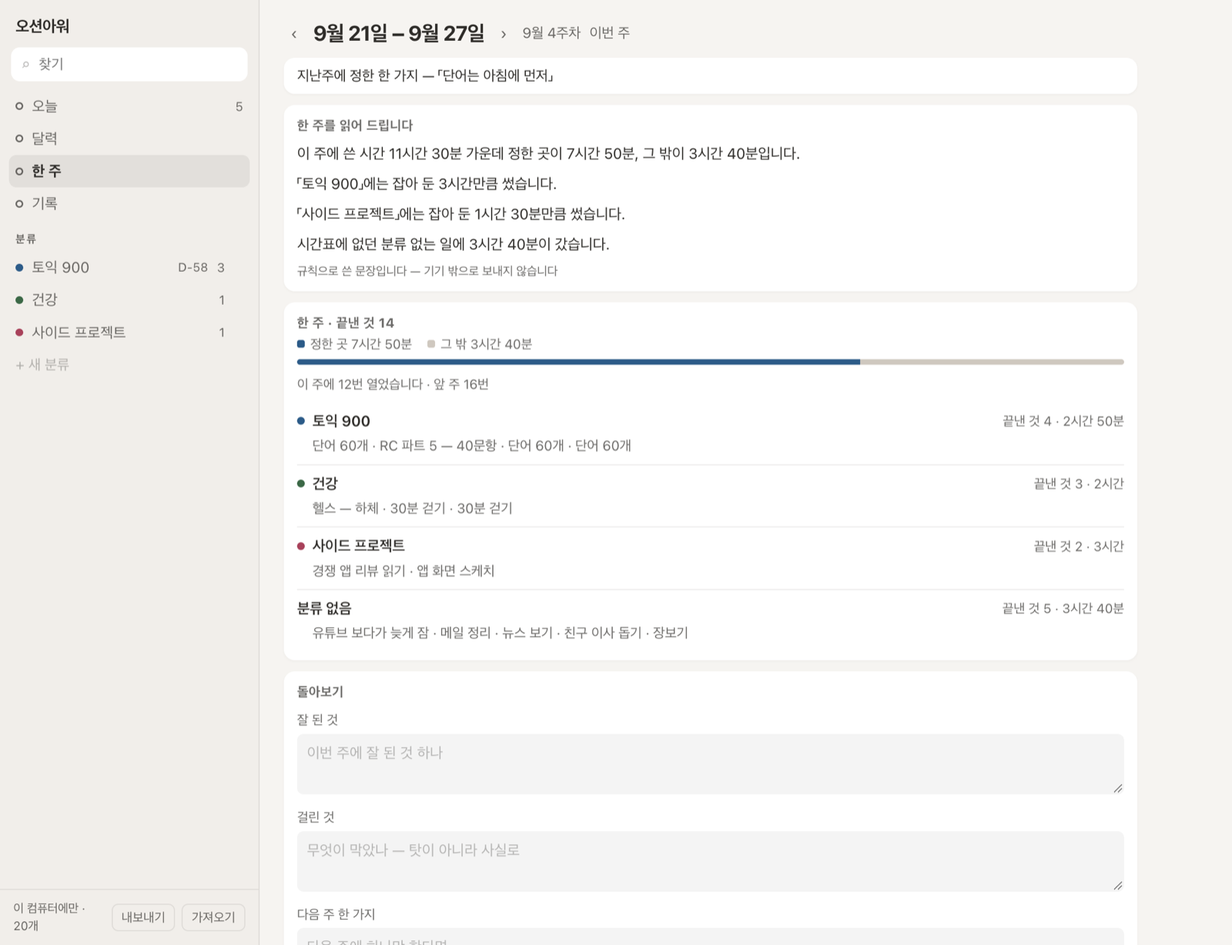
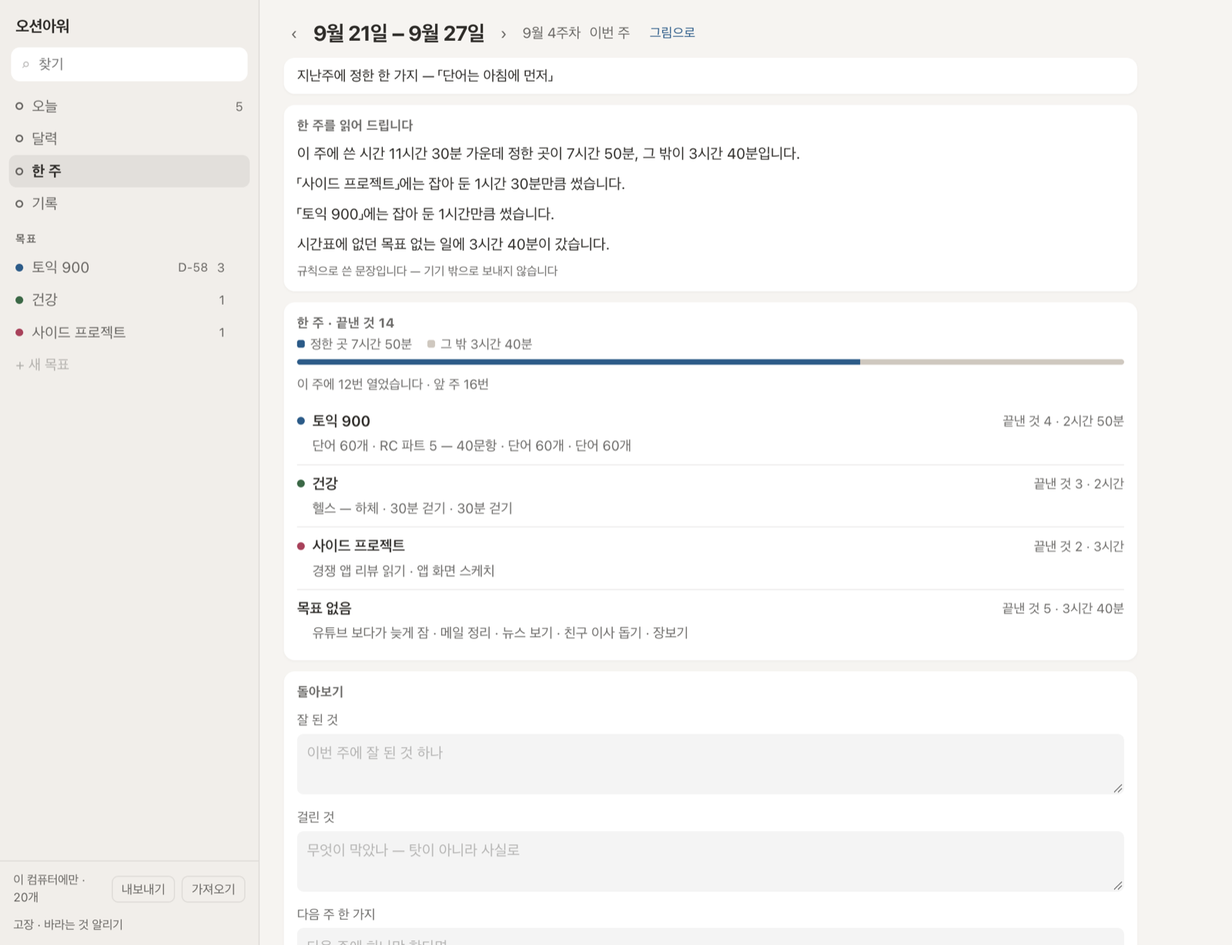
진리에 맞춰 — 처음 화면 틀, 말은 목표 하나, 폰 날짜 줄, 내보내기 보내기 창, 설치 사진
- 처음 빈 화면에 「틀로 바로 시작」(시험 준비 8주 · 갓생 아침)
- 화면의 「분류」를 「목표」로 — 파는 페이지와 같은 말
- 폰 폭에서 날짜 줄 단추가 두 줄로 접히던 것 고침
- 폰에서 내보내기는 보내기 창(에어드롭 · 카톡 · 파일에 저장), 안 되면 파일로
- manifest 설치 사진(넓은 · 좁은), 파는 페이지: 앱 안 브라우저 알림 · 한 주 그림 · 새 사진

diff --git a/app/index.html b/app/index.html
@@ -198,7 +198,7 @@ main{flex:1;overflow:auto}
 .daybar button{color:var(--d70);font-size:15px;padding:1px 6px;border-radius:6px;line-height:1.3}
 .daybar button:hover{background:var(--hov);color:var(--ink)}
 .daybar .today{font-size:12px;margin-left:4px;color:var(--c4)}
-/* 늘 보이는 단추는 다섯까지(규칙 13) — 나머지는 「⋯」를 누르면 편다 */
+/* 늘 보이는 단추는 다섯까지(규칙 3) — 나머지는 「⋯」를 누르면 편다 */
 .daybar .xtra{display:none}
 .daybar.more-on .xtra{display:inline-block}
 .daybar .dmore{font-size:14px;padding:1px 7px;letter-spacing:.05em}
@@ -281,7 +281,7 @@ li.row:has(.edit) .tools{display:none}
 body.cool .tools{pointer-events:none!important}   /* 도구를 누른 직후 0.5초 — 줄이 밀려 다른 단추가 손 밑에 와도 두 번 눌리지 않게 */
 .tools button{font-size:11.5px;color:var(--d70);padding:2px 5px;border-radius:5px;white-space:nowrap}
 .tools button:hover{background:var(--hov);color:var(--ink)}
-.tools .xtra{display:none}                     /* 늘 보이는 도구는 여덟까지(규칙 13) — 나머지는 「더」 */
+.tools .xtra{display:none}                     /* 늘 보이는 도구는 여덟까지(규칙 3) — 나머지는 「더」 */
 li.row.tools-more .tools .xtra{display:inline-block}
 li.row.tools-more .tools .tmore{display:none}
 .tools .rep{position:relative;display:inline-flex}
@@ -295,6 +295,10 @@ li.row.tools-more .tools .tmore{display:none}
 .first p{margin:0 0 10px}
 .first .ex{background:var(--hov);border-radius:8px;padding:7px 10px 1px;margin:0 0 10px}
 .first .exl{display:block;font-size:11px;font-weight:700;letter-spacing:.08em;margin:0 0 5px}
+.fstart{display:flex;flex-wrap:wrap;align-items:center;gap:6px;margin:2px 0 8px}
+.fstart span{font-size:12px;color:var(--d70);margin-right:2px}
+.fstart button{font-size:13px;color:var(--c4);border:1px solid var(--line);background:var(--card);border-radius:999px;padding:4px 12px}
+.fstart button:hover{background:var(--hov)}
 /* 메모 — 줄 아래에 펼친다. 적는 대로 저장한다 */
 .meta .nm-mark{cursor:pointer}
 /* 하위 할 일 — 줄 아래로 펼친다. 한 겹만 */
@@ -479,7 +483,8 @@ body.tdragging,body.tdragging *{cursor:grabbing!important;user-select:none}
   .wrap{padding:4px 12px calc(96px + env(safe-area-inset-bottom))}
   .daybar{flex-wrap:wrap;row-gap:6px}
   .daybar.dayb{flex-wrap:nowrap;gap:4px}        /* 날짜 줄은 한 줄로 — 날짜 글자가 길면 줄여서 ⋯ 까지 한 줄에 */
-  .daybar.dayb .wd{min-width:0;overflow:hidden;text-overflow:ellipsis;white-space:nowrap}
+  .daybar.dayb .wd{min-width:0;flex:1 1 auto;overflow:hidden;text-overflow:ellipsis;white-space:nowrap}
+  .daybar.dayb > button,.daybar.dayb .seg,.daybar.dayb h1{flex:none;white-space:nowrap}   /* 단추는 안 줄인다 — 줄어드는 건 날짜 글자만(09-26 「추석 연휴」에서 단추가 두 줄로 접혔다) */
   .daybar.dayb.more-on{flex-wrap:wrap}
   .daybar h1{white-space:nowrap}
   .daybar .ics{margin-left:0}
@@ -1202,7 +1207,7 @@ const editing = () => !!document.querySelector('input.edit')
 let openNotes = new Set();                      // 메모를 펼친 할 일
 let openSubs  = new Set();                      // 하위 할 일을 펼친 할 일
 let toolsOn   = null;                           // 폰 — 「⋯」로 도구를 편 줄 하나
-let toolsMore = null;                           // 도구의 「더」를 편 줄 하나 — 늘 보이는 도구는 여덟까지(규칙 13)
+let toolsMore = null;                           // 도구의 「더」를 편 줄 하나 — 늘 보이는 도구는 여덟까지(규칙 3)
 let dayMore   = false;                          // 날짜 줄의 「⋯」를 폈나
 let copyFor   = null, copyPick = new Set();     // 복사 — 할 일 id 또는 'day:날짜' · 고른 날들
 let picking   = false, picked = new Set();      // 여러 개 골라 한꺼번에
@@ -1215,7 +1220,7 @@ function drawPickbar(){
     <button data-pk="today" ${dis}>오늘로</button><button data-pk="tomorrow" ${dis}>내일로</button>
     <label class="pksel pkd">날짜…<input type="date" data-pkdate ${dis}></label>
     <button data-pk="done" ${dis}>끝내기</button>
-    <select class="pksel" data-pklist ${dis}><option value="">분류 ▾</option><option value="-">분류 없음</option>${DB.lists().filter(l => !l.done).map(l => `<option value="${esc(l.id)}">${esc(l.name)}</option>`).join('')}</select>
+    <select class="pksel" data-pklist ${dis}><option value="">목표 ▾</option><option value="-">목표 없음</option>${DB.lists().filter(l => !l.done).map(l => `<option value="${esc(l.id)}">${esc(l.name)}</option>`).join('')}</select>
     <button class="del" data-pk="del" ${dis}>지우기</button>
     <button data-pk="all">보이는 것 모두</button><button data-pk="stop">그만</button>`;
 }
@@ -1285,15 +1290,15 @@ function drawSide(){
     + (nTrash ? `<button class="li ${mode() === 'trash' ? 'on' : ''}" data-view="trash" title="지운 것 — 되살리면 제자리로 돌아갑니다">
          <span class="dot ring"></span><span class="nm">휴지통</span><span class="n">${nTrash}</span></button>` : '')
     + (() => { const ar = [...new Set(going.map(l => l.area).filter(Boolean))], none = going.filter(l => !l.area);
-        if (!ar.length) return `<div class="sec">분류</div>` + going.map(item).join('');   // 영역을 안 쓰면 전과 같다
+        if (!ar.length) return `<div class="sec">목표</div>` + going.map(item).join('');   // 영역을 안 쓰면 전과 같다
         return ar.map(a => `<div class="sec area"><span data-area="${esc(a)}" title="누르면 영역 이름 고치기">${esc(a)}</span></div>`
                           + going.filter(l => l.area === a).map(item).join('')).join('')
           + (none.length ? `<div class="sec">영역 없음</div>` + none.map(item).join('') : ''); })()
-    + `<button class="newlist" id="newlist">+ 새 분류</button>`
+    + `<button class="newlist" id="newlist">+ 새 목표</button>`
     + (fin.length ? `<button class="newlist" data-finfold>${showFin ? '마친 목표 접기' : '마친 목표 ' + fin.length}</button>`
                     + (showFin ? fin : fin.filter(l => l.id === open)).map(item).join('') : '');   // 열어 둔 것은 접혀도 보인다
   const sel = $('#addList'), keep = sel.value;
-  sel.innerHTML = `<option value="">분류 없음</option>`
+  sel.innerHTML = `<option value="">목표 없음</option>`
     + going.map(l => `<option value="${esc(l.id)}">${esc(l.name)}</option>`).join('');
   if ([...sel.options].some(o => o.value === keep)) sel.value = keep;
 }
@@ -1335,7 +1340,7 @@ function drawDay(){
          ${calWeek !== DB.monday(T) ? `<button class="today" data-cm="0">이번 주</button>` : ''}${seg}${noHoli}${ics}`
       : `<button data-cm="-1">‹</button><h1>${y}년 ${m}월</h1><button data-cm="1">›</button>
          ${calMonth !== T.slice(0, 7) ? `<button class="today" data-cm="0">이번 달</button>` : ''}${seg}${noHoli}${ics}`; return; }
-  // 늘 보이는 단추는 다섯까지(규칙 13) — 나머지는 「⋯」 안에. 계획 · 마무리는 때에 맞는 하나만 앞에 둔다(오후 세 시부터 마무리)
+  // 늘 보이는 단추는 다섯까지(규칙 3) — 나머지는 「⋯」 안에. 계획 · 마무리는 때에 맞는 하나만 앞에 둔다(오후 세 시부터 마무리)
   const pmNow = new Date().getHours() >= 15;
   $('#daybar').classList.toggle('more-on', dayMore); $('#daybar').classList.add('dayb');
   $('#daybar').innerHTML =
@@ -1412,9 +1417,9 @@ function row(t){
         : inLog ? (l ? `<span class="d">${esc(l.name)}</span>` : '')
         : showDate ? `<span class="d">${t.date?dOnly(t.date):'날짜 없음'}</span>`
         : (t.movedFrom && t.movedFrom !== t.date ? `<span class="d">${dOnly(t.movedFrom)}부터</span>` : '')}
-      <span class="cdot ${l?'':'none'}" style="${l?`background:${l.color}`:''}" title="분류">
+      <span class="cdot ${l?'':'none'}" style="${l?`background:${l.color}`:''}" title="목표">
         <select data-do="setlist">
-          <option value="" ${!l?'selected':''}>분류 없음</option>
+          <option value="" ${!l?'selected':''}>목표 없음</option>
           ${opts.map(x=>`<option value="${esc(x.id)}" ${l&&l.id===x.id?'selected':''}>${esc(x.name)}</option>`).join('')}
         </select></span>
     </span>
@@ -1441,7 +1446,7 @@ function group(ts, fold){
     const l = k ? DB.listOf(k) : null;
     out += `<div class="box">
       <h2 ${l ? `data-list="${esc(l.id)}" title="목표 화면 열기"` : ''}>${l
-          ? `<span class="gdot" style="background:${l.color}"></span>${esc(l.name)}` : '분류 없음'}${fold ? cnt(arr) : ' · ' + arr.length}</h2>
+          ? `<span class="gdot" style="background:${l.color}"></span>${esc(l.name)}` : '목표 없음'}${fold ? cnt(arr) : ' · ' + arr.length}</h2>
       ${fold ? rows(arr) : `<ul>${arr.map(row).join('')}</ul>`}</div>`;
   }
   return out;
@@ -1520,7 +1525,7 @@ function readWeek(wk){
     out.push(g >= p * 0.9 ? `「${name(k)}」에는 잡아 둔 ${fmtDur(p)}만큼 썼습니다.`
       : `「${name(k)}」에 ${fmtDur(p)}을 잡아 두었고, 쓴 시간은 ${g ? fmtDur(g) + '입니다' : '아직 없습니다'}.`); });
   const extra = [...got.entries()].filter(([k, g]) => !plan.has(k) && g >= 1800).sort((a, b) => b[1] - a[1])[0];
-  if (extra) out.push(`시간표에 없던 ${extra[0] ? '「' + name(extra[0]) + '」' : '분류 없는 일'}에 ${fmtDur(extra[1])}이 갔습니다.`);
+  if (extra) out.push(`시간표에 없던 ${extra[0] ? '「' + name(extra[0]) + '」' : '목표 없는 일'}에 ${fmtDur(extra[1])}이 갔습니다.`);
   const moved = DB.todos().filter(t => !t.done && inWk(t.date) && t.movedCount >= 2).sort((a, b) => b.movedCount - a.movedCount)[0];
   if (moved) out.push(`여러 번 옮긴 일 — 「${moved.text}」 ${moved.movedCount}번. 쪼개 보거나, 이 주는 내려놔도 됩니다.`);
   return out.slice(0, 4);
@@ -1539,7 +1544,7 @@ function weekPage(){                           // 한 주 — 끝낸 것과 쓴 
   const groups = order.map(k => { const l = k ? DB.listOf(k) : null, p = per.get(k);
     const bits = [p.done.length ? '끝낸 것 ' + p.done.length : '', p.secs ? fmtDur(p.secs) : ''].filter(Boolean).join(' · ');
     return `<div class="wg"><div class="wh" ${l ? `data-list="${esc(l.id)}" title="목표 화면 열기"` : ''}>${l
-        ? `<span class="gdot" style="background:${l.color}"></span>${esc(l.name)}` : '분류 없음'}<span class="n">${bits}</span></div>
+        ? `<span class="gdot" style="background:${l.color}"></span>${esc(l.name)}` : '목표 없음'}<span class="n">${bits}</span></div>
       ${p.done.length ? `<div class="wl">${p.done.map(t => esc(t.text)).join(' · ')}</div>` : ''}</div>`; }).join('');
   const opn = w => [0, 1, 2, 3, 4, 5, 6].reduce((a, i) => a + DB.opensOn(DB.shift(w, i)), 0), oNow = opn(wk), oPrev = opn(DB.shift(wk, -7));
   const opens = oNow || oPrev ? `<div class="opn" title="이 기기 안에서만 셉니다 — 밖으로 보내지 않습니다. 5분 넘게 떠나 있다가 돌아온 것을 한 번으로 셉니다">이 주에 ${oNow}번 열었습니다 · 앞 주 ${oPrev}번</div>` : '';
@@ -1689,25 +1694,27 @@ function drawBody(){
         + (showPast ? `<div class="box"><ul>${p.map(row).join('')}</ul></div>` : '');
     }
     const ts = DB.todosOn(day).sort(DB.byWhen), rt = ts.filter(t => t.repeat);   // 루틴(반복하는 일)은 맨 위 한 칸에 따로
-    const first = day === T && !DB.todos().length && !DB.lists().length;   // 처음 온 사람 — 설명 창 없이 빈 칸에서 차이를 보여 준다(규칙 9)
+    const first = day === T && !DB.todos().length && !DB.lists().length;   // 처음 온 사람 — 설명 창 없이 빈 칸에서 차이를 보여 준다(규칙 10)
     html += ts.length ? (rt.length ? `<div class="box routine"><h2>루틴${cnt(rt)}</h2>${rows(rt)}</div>` : '') + group(ts.filter(t => !t.repeat), true)
       : `<div class="box"><div class="empty">${day===T
           ? '오늘 할 일이 없습니다. 위에 적어 보세요.' : '이 날은 비어 있습니다.'}</div>${first ? firstHint() : ''}</div>`;
     const un = DB.undated().sort(DB.byWhen);
     if (un.length && day === T)
       html += `<div class="box"><h2>날짜 없음${cnt(un)}</h2>${rows(un)}</div>`;
-    const sp = DB.timeByDay()[day];               // 이 날 쓴 시간 — 정한 곳 · 그 밖을 오늘 화면에서도(규칙 9). 잰 게 있을 때만, 맨 아래에
+    const sp = DB.timeByDay()[day];               // 이 날 쓴 시간 — 정한 곳 · 그 밖을 오늘 화면에서도(규칙 10). 잰 게 있을 때만, 맨 아래에
     if (sp && sp.on + sp.off) html += `<div class="box dsum"><h2>${day === T ? '오늘' : '이 날'} 쓴 시간</h2>${timeLine(sp)}</div>`;
   }
   $('#body').innerHTML = html;
 }
 
 function firstHint(){                           // 처음 온 사람에게 — 두 줄과 예시 막대 하나. 할 일이나 목표가 하나라도 생기면 사라진다
-  return `<div class="first"><p>「+ 새 분류」로 목표를 만들고(폰은 ☰ 안), 그 목표의 일에 시간을 쓰면 하루가 둘로 나뉘어 보입니다.
+  return `<div class="first"><p>「+ 새 목표」로 목표를 만들고(폰은 ☰ 안), 그 목표의 일에 시간을 쓰면 하루가 둘로 나뉘어 보입니다.
       정한 곳은 목표에 이어 둔 일, 그 밖은 나머지입니다.</p>
     <div class="ex"><span class="exl">예시</span>${timeLine({ on:7200, off:3600 })}</div>
-    <p>시간은 할 일 줄의 「시작」으로 재거나, 「3시 공부」처럼 시각을 적어 두고 끝내면 들어갑니다.</p></div>`;
+    <p>시간은 할 일 줄의 「시작」으로 재거나, 「3시 공부」처럼 시각을 적어 두고 끝내면 들어갑니다.</p>
+    <div class="fstart"><span>틀로 바로 시작</span>${FIRST_FRAMES.map(([k, n]) => `<button data-framego="${k}">${n}</button>`).join('')}</div></div>`;
 }
+const FIRST_FRAMES = [['exam', '시험 준비 8주'], ['morning', '갓생 아침']];   // t/ 폴더의 틀 중 처음 화면에 둘 것 — 이름은 틀 파일과 맞춘다
 
 /* ── 제자리 고치기 ── */
 function startEdit(el, value, save){
@@ -1948,7 +1955,7 @@ function pickDo(a, arg){
   else if (a === 'done'){ const was = ids.filter(id => !DB.todo(id).done); was.forEach(id => DB.toggleTodo(id));
     msg = `${was.length}개를 끝냈습니다`; back = () => was.forEach(id => DB.toggleTodo(id)); }
   else if (a === 'list'){ const prev = ids.map(id => [id, DB.todo(id).listId]); ids.forEach(id => DB.editTodo(id, { listId:arg }));
-    msg = `${n}개의 분류를 바꿨습니다`; back = () => prev.forEach(([id, l]) => DB.editTodo(id, { listId:l })); }
+    msg = `${n}개의 목표를 바꿨습니다`; back = () => prev.forEach(([id, l]) => DB.editTodo(id, { listId:l })); }
   else if (a === 'del'){ ids.forEach(id => DB.removeTodo(id)); msg = `${n}개를 지웠습니다`; back = () => ids.forEach(id => DB.restoreTodo(id)); }
   stopPick(); render(); toast(msg, back);
 }
@@ -2078,7 +2085,7 @@ document.addEventListener('click', e => {
   if (e.target.closest('[data-logmore]')){ logMore += 30; return render(); }
 
   const nl = e.target.closest('#newlist');
-  if (nl) return startAdd(nl, '분류 이름', v => { const l = DB.addList(v); if (l) open = l.id; }, false);
+  if (nl) return startAdd(nl, '목표 이름', v => { const l = DB.addList(v); if (l) open = l.id; }, false);
 
   if (e.target.closest('[data-finfold]')){ showFin = !showFin; return render(); }
   const ar = e.target.closest('[data-area]');
@@ -2626,14 +2633,21 @@ function fbLink(){
 
 /* ── 받은 틀(규칙 11) ── 주소 끝의 ?t=이름 → t/이름.json 을 받아 한 번 묻는다. 사람이 링크를 누른 뒤라 규칙 2에 맞다 */
 let frameAsk = null;                            // { key, f } — 넣을지 묻는 중인 틀
+const fetchFrame = k => !/^[a-z0-9-]{1,40}$/.test(k) ? Promise.reject()
+  : fetch('t/' + k + '.json', { cache:'no-cache' }).then(r => r.ok ? r.json() : Promise.reject()).then(j => DB.cleanFrame(j) || Promise.reject());
 function loadFrame(){
   const k = new URLSearchParams(location.search).get('t'); if (!k) return;
-  if (!/^[a-z0-9-]{1,40}$/.test(k)) return toast('틀 이름을 읽지 못했습니다 — 받은 링크를 다시 눌러 주세요');
-  return fetch('t/' + k + '.json', { cache:'no-cache' }).then(r => r.ok ? r.json() : Promise.reject())
-    .then(j => { const f = DB.cleanFrame(j); if (!f) throw 0;
-      frameAsk = { key:k, f }; page = 'day'; open = null; q = ''; day = DB.today(); render(); })
+  return fetchFrame(k).then(f => { frameAsk = { key:k, f }; page = 'day'; open = null; q = ''; day = DB.today(); render(); })
     .catch(() => toast('틀을 찾지 못했습니다 — 받은 링크를 다시 눌러 주세요'));
 }
+function putFrame(f){                            // 넣고, 되돌리기를 붙인다
+  const r = DB.addFrame(f); render();
+  toast(`넣었습니다 · ${f.name} — 루틴의 「시작」을 누르면 정한 곳에 시간이 쌓입니다`, () => DB.dropFrame(r), 8000);
+  return r;
+}
+document.addEventListener('click', e => { const b = e.target.closest('[data-framego]'); if (!b) return;   // 처음 화면의 「틀로 바로 시작」 — 누른 게 곧 고른 것이라 묻지 않고 넣는다(되돌릴 수 있다)
+  b.disabled = true; return fetchFrame(b.dataset.framego).then(putFrame)
+    .catch(() => { b.disabled = false; toast('틀을 받지 못했습니다 — 인터넷을 확인해 주세요'); }); });
 function framePanel(){
   const f = frameAsk.f, n = k => f.goals.reduce((a, g) => a + g[k].length, 0);
   const what = [`목표 ${f.goals.length}`, n('stages') ? `단계 ${n('stages')}` : '', n('routines') ? `루틴 ${n('routines')}` : '', n('todos') ? `할 일 ${n('todos')}` : ''].filter(Boolean).join(' · ');
@@ -2647,8 +2661,7 @@ function framePanel(){
 document.addEventListener('click', e => { const b = e.target.closest('[data-frame]'); if (!b || !frameAsk) return;
   const f = frameAsk.f; frameAsk = null; history.replaceState(null, '', location.pathname);
   if (b.dataset.frame !== 'add') return render();
-  const r = DB.addFrame(f); render();
-  toast(`넣었습니다 · ${f.name} — 목표는 옆 칸에 있습니다`, () => DB.dropFrame(r)); });
+  putFrame(f); });
 
 /* ── 한 주 그림(규칙 11) ── 사람이 누를 때만, 고른 것만. 적은 할 일은 안 넣는다 — 목표 이름과 쓴 시간만. 많이 한 순으로 줄 세우지 않고 옆 칸 차례로 */
 let cardOn = false, cardNames = true;
@@ -2804,13 +2817,17 @@ $('#icsFile').addEventListener('change', e => {
 
 /* ── 내보내기 · 가져오기 ── */
 $('#out').addEventListener('click', () => {
-  const a = document.createElement('a');
-  a.href = URL.createObjectURL(new Blob([DB.dump()], { type:'application/json' }));
-  a.download = '오션아워-' + DB.today() + '.json';
-  document.body.appendChild(a); a.click(); a.remove();
-  setTimeout(() => URL.revokeObjectURL(a.href), 1000);
-  writeBK({ at:new Date().toISOString(), later:null }); render();
-  toast(`내보냈습니다 · 할 일 ${DB.todos().length}개`);
+  const body = DB.dump(), name = '오션아워-' + DB.today() + '.json';
+  const done = how => { writeBK({ at:new Date().toISOString(), later:null }); render();
+    toast(`${how} · 할 일 ${DB.todos().length}개 — 다른 기기에서는 「가져오기」로 엽니다`); };
+  const download = () => { const a = document.createElement('a');
+    a.href = URL.createObjectURL(new Blob([body], { type:'application/json' })); a.download = name;
+    document.body.appendChild(a); a.click(); a.remove(); setTimeout(() => URL.revokeObjectURL(a.href), 1000); done('내보냈습니다'); };
+  let file = null; try{ file = new File([body], name, { type:'application/json' }); }catch(e){}
+  // 폰 — 보내기 창(에어드롭 · 카톡 · 파일에 저장)으로 다른 기기에 바로 보낸다(규칙 9). 닫으면 아무것도 안 하고, 안 되면 내려받기로
+  if (file && matchMedia('(pointer: coarse)').matches && navigator.canShare && navigator.canShare({ files:[file] }))
+    return navigator.share({ files:[file], title:name }).then(() => done('보냈습니다'), err => { if (!err || err.name !== 'AbortError') download(); });
+  download();
 });
 $('#in').addEventListener('click', () => $('#file').click());
 $('#file').addEventListener('change', e => {
@@ -2820,8 +2837,8 @@ $('#file').addEventListener('change', e => {
     const res = DB.restore(r.result);
     if (!res.ok) return toast(res.why);
     if (!confirm(`지금 것을 가져온 것으로 바꿉니다.\n\n`
-      + `지금:      할 일 ${DB.todos().length}개 · 분류 ${DB.lists().length}개\n`
-      + `가져올 것: 할 일 ${res.todos}개 · 분류 ${res.lists}개\n\n`
+      + `지금:      할 일 ${DB.todos().length}개 · 목표 ${DB.lists().length}개\n`
+      + `가져올 것: 할 일 ${res.todos}개 · 목표 ${res.lists}개\n\n`
       + `바꾼 뒤 15초 안에는 알림에서 되돌릴 수 있습니다.`)) return;
     const prev = DB.apply(res.data);
     day = DB.today(); open = null; page = 'day'; openDays = null; q = '';
@@ -2882,7 +2899,7 @@ setInterval(dayTick, 30000);
 addEventListener('focus', dayTick);
 document.addEventListener('visibilitychange', dayTick);
 
-/* ── 연 횟수 ── 이 기기 안에서만 센다(규칙 6). 5분 넘게 떠나 있다가 돌아오면 한 번. 새로 고침은 안 센다.
+/* ── 연 횟수 ── 이 기기 안에서만 센다(규칙 8). 5분 넘게 떠나 있다가 돌아오면 한 번. 새로 고침은 안 센다.
    떠난 때는 이 브라우저 것이라 자료가 아니라 따로 둔다 */
 const SEEN = DB.key + '.seen', AWAY = 5 * 60e3;
 let awayAt = null;

diff --git a/index.html b/index.html
@@ -42,6 +42,10 @@ p{margin:0 0 12px}
   padding:12px 20px;border-radius:var(--r);font-size:15px}
 .go:hover{background:#000}
 .go.sm{padding:7px 13px;font-size:13.5px}
+.inapp{background:#FAF0DC;color:#8E6524;font-size:13.5px;line-height:1.6;padding:10px 16px}
+.inapp button{font:inherit;font-size:12.5px;color:#8E6524;border:1px solid rgba(142,101,36,.35);border-radius:6px;padding:1px 8px;background:transparent;cursor:pointer}
+.cardrow{display:grid;grid-template-columns:minmax(0,300px) 1fr;gap:24px;align-items:start}
+.cardrow .shot img{max-width:300px}
 .cta{display:flex;align-items:center;gap:14px;flex-wrap:wrap}
 .note{font-size:13.5px;color:var(--d70)}
 .hero{padding:56px 0 36px}
@@ -83,11 +87,15 @@ footer a{color:var(--d70)}
   .sub{font-size:17px}
   .hero{padding:32px 0 28px}
   section{padding:34px 0}
-  .two,.steps{grid-template-columns:1fr}
+  .two,.steps,.cardrow{grid-template-columns:1fr}
 }
 </style>
 </head>
 <body>
+<div class="inapp" id="inapp" hidden>
+  인스타 · 카톡 같은 앱 안에서 열었습니다. 여기서 적은 것은 사파리 · 크롬에서 안 보이고 지워질 수도 있습니다.
+  ⋯ 메뉴의 「브라우저로 열기」로 사파리 · 크롬에서 열어 주세요. <button id="copyurl">주소 복사</button>
+</div>
 <div class="wrap">
 
 <header class="top">
@@ -125,7 +133,7 @@ footer a{color:var(--d70)}
   <p class="lbl">How</p>
   <h2>쓰는 법</h2>
   <ol class="steps">
-    <li><h3>목표를 정합니다</h3><p>목표 하나에 단계 몇 개. 할 일은 목표에 이어 둡니다.</p></li>
+    <li><h3>목표를 정합니다</h3><p>목표 하나에 단계 몇 개. 할 일은 목표에 이어 둡니다. 처음 화면이나 받은 틀 링크로 목표 · 루틴을 한 번에 넣을 수도 있습니다.</p></li>
     <li><h3>아침에 고릅니다</h3><p>밀린 일과 날짜 없는 일에서 오늘 할 것을 고릅니다. 평소보다 한참 많으면 한 줄로 알려 줍니다.</p></li>
     <li><h3>저녁에 한 줄 남깁니다</h3><p>한 것을 보고, 남은 것은 내일로 넘기고, 오늘을 한 줄로 적습니다.</p></li>
     <li><h3>주말에 돌아봅니다</h3><p>잘 된 것, 걸린 것, 다음 주 한 가지. 세 칸이면 끝입니다.</p></li>
@@ -134,6 +142,21 @@ footer a{color:var(--d70)}
     <img src="shot-today.png" width="1600" height="900" alt="오션아워 오늘 화면. 맨 위가 바로 적는 칸이고, 할 일이 목표별로 묶여 있고, 맨 아래에 오늘 쓴 시간이 정한 곳과 그 밖으로 나뉘어 있다">
     <figcaption>열면 바로 적는 칸입니다. 시간을 쓴 날은 맨 아래에 그날 쓴 시간이 정한 곳과 그 밖으로 나뉩니다.</figcaption>
   </figure>
+</section>
+
+<section>
+  <p class="lbl">Share</p>
+  <h2>한 주를 그림 한 장으로</h2>
+  <div class="cardrow">
+    <figure class="shot">
+      <img src="card-week.png" width="720" height="900" alt="한 주 그림 예시 — 이번 주 정한 곳에 7시간 50분, 그 밖 3시간 40분, 목표별로 쓴 시간" loading="lazy">
+      <figcaption>예시 자료로 뽑은 그림입니다.</figcaption>
+    </figure>
+    <div>
+      <p>한 주 화면의 「그림으로」를 누르면 인스타에 올릴 수 있는 한 장이 나옵니다.</p>
+      <p>들어가는 건 목표 이름과 쓴 시간뿐입니다. 적은 할 일은 안 들어가고, 목표 이름도 뺄 수 있습니다.</p>
+    </div>
+  </div>
 </section>
 
 <section>
@@ -171,5 +194,18 @@ footer a{color:var(--d70)}
 
 <footer>오션아워 · 2026 · <a href="https://github.com/kyeom531-sketch/oceanhour-planner/issues/new" target="_blank" rel="noopener">고장 · 바라는 것 알리기</a> <span class="fnote">(깃허브 — 누구나 볼 수 있는 곳입니다)</span></footer>
 </div>
+<script>
+/* 앱 안 브라우저(인스타 · 카톡 …)에서 열면 먼저 알린다 — 앱과 같은 목록(규칙 1) */
+(function(){
+  if (!/Instagram|FBAN|FBAV|FB_IAB|KAKAOTALK|NAVER\(inapp|Line\/|DaumApps|Threads|everytimeApp|Snapchat/i.test(navigator.userAgent)) return;
+  document.getElementById('inapp').hidden = false;
+  document.getElementById('copyurl').addEventListener('click', function(){
+    var b = this, u = location.href;
+    (navigator.clipboard ? navigator.clipboard.writeText(u) : Promise.reject())
+      .then(function(){ b.textContent = '복사했습니다'; })
+      .catch(function(){ prompt('이 주소를 복사해 사파리 · 크롬에서 열어 주세요', u); });
+  });
+})();
+</script>
 </body>
 </html>
